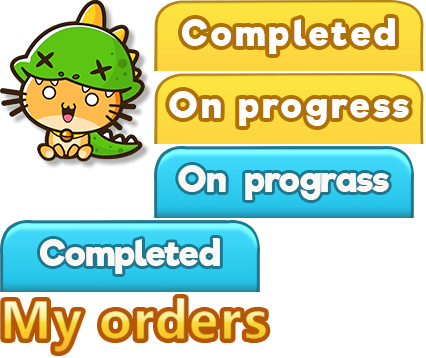
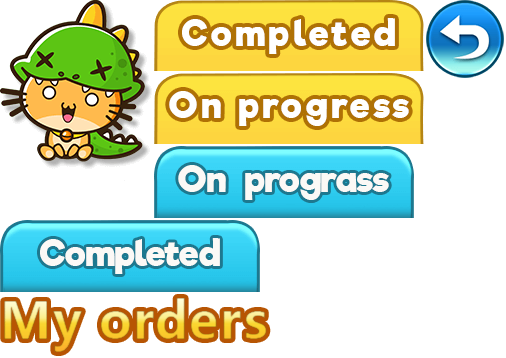
order ui

diff --git a/src/pages/order-for-goods/order-for-goods.component.ts b/src/pages/order-for-goods/order-for-goods.component.ts
@@ -4,7 +4,7 @@
  * @Author: Wayne Yu
  * @Date: 2021-11-09 11:41:22
  * @LastEditors: Wayne Yu
- * @LastEditTime: 2021-11-09 13:42:51
+ * @LastEditTime: 2021-11-09 15:22:22
  */
 import { Component } from '@angular/core';
 import { BitmapData } from '../../basicUI/basic-ui.module';
@@ -19,8 +19,17 @@ export class OrderForGoodsComponent extends MainPage {
 
   backBtn!: BitmapData;
   title!: BitmapData;
+  shocked!: BitmapData;
 
-  orderList!: any[];
+  orderProgressList!: any[];
+  orderCompleteList!: any[];
+
+  compBtn!: BitmapData;
+  compIcon!: BitmapData;
+  progressBtn!: BitmapData;
+  progressIcon!: BitmapData;
+
+  showOnprogress: boolean = true;
   
   constructor() { 
     super();
@@ -30,9 +39,15 @@ export class OrderForGoodsComponent extends MainPage {
   initUI() {
     Loading.status = 1;
 
-    this.backBtn = this.textureData.getTexture( "btn_return", 30, 125 );
-    this.title = this.textureData.getTexture( "VIDEOS", 294, 150 );
-    new GameHttp().loadData( "cmd.php?action=shop&" + GM.interfaceString + "&weeks=3&created=desc", this.getRecordList.bind(this), "GET", "type=get_order_list" );
+    this.backBtn = this.textureData.getTexture( "btn_return", 30, 45 );
+    this.title = this.textureData.getTexture( "My orders", 240, 50 );
+    this.shocked = this.textureData.getTexture( "shocked", 300, 700 );
+
+    this.progressBtn = this.textureData.getTexture( "prograss1", 95, 217 );
+    this.progressIcon = this.textureData.getTexture( "prograss", 95, 219 );
+    this.compBtn = this.textureData.getTexture( "completed1", 390, 217 );
+    this.compIcon = this.textureData.getTexture( "completed", 390, 220 );
+    new GameHttp().loadData( "cmd.php?action=shop&" + GM.interfaceString, this.getRecordList.bind(this), "POST", "type=get_order_list" );
   }
 
   gotoBack(){
@@ -42,6 +57,11 @@ export class OrderForGoodsComponent extends MainPage {
   getRecordList( data: any ){
     console.log( data );
     Loading.status = 2;
-    this.orderList = data.list;
+    this.orderProgressList = data.list;
+    this.orderCompleteList = data.list;
+  }
+
+  changeList(){
+    this.showOnprogress = !this.showOnprogress;
   }
 }

diff --git a/src/pages/order-for-goods/order-for-goods.component.html b/src/pages/order-for-goods/order-for-goods.component.html
@@ -4,12 +4,28 @@
  * @Author: Wayne Yu
  * @Date: 2021-11-09 11:41:22
  * @LastEditors: Wayne Yu
- * @LastEditTime: 2021-11-09 13:42:57
+ * @LastEditTime: 2021-11-09 15:15:36
 -->
 <div class="stretchingBg widthApp" [style.height]="pageHeight + 'px'" [style.background-image]="'url(assets/loading_ui/loading_bg.jpg)'">
   <app-image [imgData]="title"></app-image>
   <app-image-button [imgData]="backBtn" (itemClick)="gotoBack()"></app-image-button>
-  <div class="orderListContainer" [style.height]="pageHeight - 220 + 'px'">
-    <app-order-list [listHeight]="pageHeight - 350" [listData]="orderList" [textureData]="textureData"></app-order-list>
+  <div class="orderListContainer" [style.height]="pageHeight - 220 + 'px'"></div>
+  <div *ngIf="showOnprogress">
+    <app-order-list [listHeight]="pageHeight - 350" [listData]="orderProgressList" [textureData]="textureData"></app-order-list>
+    <div *ngIf="!orderProgressList.length">
+      <div class="noOrder">No New Order Here</div>
+      <app-image [imgData]="shocked"></app-image>
+    </div>
+    <app-image [imgData]="progressIcon"></app-image>
+    <app-image-button [imgData]="compBtn" (itemClick)="changeList()"></app-image-button>
+  </div>
+  <div *ngIf="!showOnprogress">
+    <app-order-list [listHeight]="pageHeight - 350" [listData]="orderCompleteList" [textureData]="textureData"></app-order-list>
+    <div *ngIf="!orderCompleteList.length">
+      <div class="noOrder">No New Order Here</div>
+      <app-image [imgData]="shocked"></app-image>
+    </div>
+    <app-image-button [imgData]="progressBtn" (itemClick)="changeList()"></app-image-button>
+    <app-image [imgData]="compIcon"></app-image>
   </div>
 </div>

diff --git a/src/pages/order-for-goods/order-for-goods.component.css b/src/pages/order-for-goods/order-for-goods.component.css
@@ -1,10 +1,18 @@
 .orderListContainer{
-    background-color: #FDC43F;
+    background-color: #fdd53f;
     left: 10px;
-    top: 220px;
+    top: 286px;
     width: 730px;
     -moz-border-radius: 28px;
     -webkit-border-radius: 28px;
     border-radius: 28px;
     border: 3px solid #ad8321;
+}
+.noOrder{
+    left: 100px;
+    top: 620px;
+    width: 550px;
+    text-align: center;
+    font-size: 45px;
+    font-family: framd;
 }
